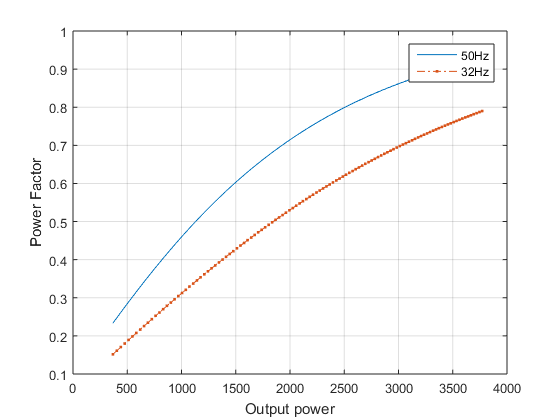
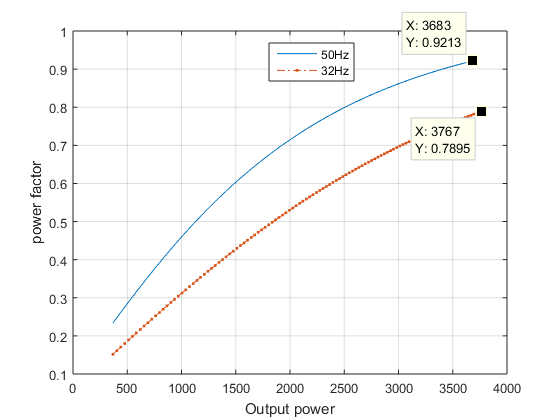
modify slip and power factor for frequency variation

diff --git a/total_freq.m b/total_freq.m
@@ -4,8 +4,8 @@ hold on;
 figure(2);
 eff_power_freq(32);
 figure(3);
-
-
+pf_power_freq(32);
+figure(4);
 torque_power_freq(32);
 figure(6);
 speed_power_freq(32);
